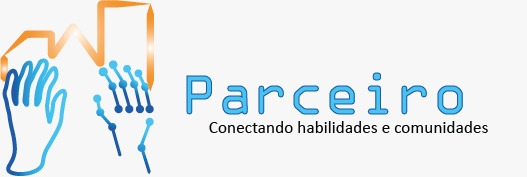
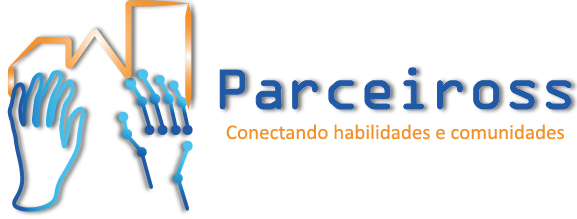
feat: Adjusts
- css adjusts
 - route redirect
 - dummyData adjusts
 - add images
 - add new logo

Changed region(s): [[0.0, 0.0, 1.0, 1.0], [0.3947, 0.678, 0.9412, 0.7627]]

diff --git a/src/components/sidebar/Sidebar.jsx b/src/components/sidebar/Sidebar.jsx
@@ -9,6 +9,8 @@ import {
   WorkOutline,
   Event,
   School,
+  Work,
+  LocationCity,
 } from "@material-ui/icons";
 import { Users } from "../../dummyData";
 import CloseFriend from "../closeFriend/CloseFriend";
@@ -28,31 +30,39 @@ export default function Sidebar() {
           </li>
           <li className="sidebarListItem">
             <PlayCircleFilledOutlined className="sidebarIcon" />
-            <span className="sidebarListItemText">Videos</span>
+            <span className="sidebarListItemText">Vídeos</span>
           </li>
           <li className="sidebarListItem">
             <Group className="sidebarIcon" />
-            <span className="sidebarListItemText">Groups</span>
+            <span className="sidebarListItemText">Grupos</span>
           </li>
           <li className="sidebarListItem">
             <Bookmark className="sidebarIcon" />
-            <span className="sidebarListItemText">Bookmarks</span>
+            <span className="sidebarListItemText">Favoritos</span>
           </li>
           <li className="sidebarListItem">
             <HelpOutline className="sidebarIcon" />
-            <span className="sidebarListItemText">Questions</span>
+            <span className="sidebarListItemText">Questões</span>
+          </li>
+          <li className="sidebarListItem">
+            <Work className="sidebarIcon" />
+            <span className="sidebarListItemText">Ofertas</span>
           </li>
           <li className="sidebarListItem">
             <WorkOutline className="sidebarIcon" />
-            <span className="sidebarListItemText">Jobs</span>
+            <span className="sidebarListItemText">Demandas</span>
           </li>
           <li className="sidebarListItem">
             <Event className="sidebarIcon" />
-            <span className="sidebarListItemText">Events</span>
+            <span className="sidebarListItemText">Projetos</span>
+          </li>
+          <li className="sidebarListItem">
+            <LocationCity className="sidebarIcon" />
+            <span className="sidebarListItemText">Comunidades</span>
           </li>
           <li className="sidebarListItem">
             <School className="sidebarIcon" />
-            <span className="sidebarListItemText">Courses</span>
+            <span className="sidebarListItemText">Cursos</span>
           </li>
         </ul>
         <button className="sidebarButton">Show More</button>

diff --git a/src/components/post/post.css b/src/components/post/post.css
@@ -9,6 +9,16 @@
 .postWrapper {
   padding: 10px;
 }
+.postCheck {
+  color: green;
+  margin-left: 400px;
+  position: relative;
+}
+
+.postCheckText {
+  top: 5px;
+  position: absolute;
+}
 
 .postTop {
   display: flex;
@@ -34,45 +44,45 @@
   margin: 0 10px;
 }
 
-.postDate{
-    font-size: 12px;
+.postDate {
+  font-size: 12px;
 }
 
-.postCenter{
-    margin: 20px 0;
+.postCenter {
+  margin: 20px 0;
 }
 
-.postImg{
-    margin-top: 20px;
-    width: 100%;
-    max-height: 500px;
-    object-fit: contain;
+.postImg {
+  margin-top: 20px;
+  width: 100%;
+  max-height: 500px;
+  object-fit: contain;
 }
 
-.postBottom{
-    display: flex;
-    align-items: center;
-    justify-content: space-between;
+.postBottom {
+  display: flex;
+  align-items: center;
+  justify-content: space-between;
 }
 
-.postBottomLeft{
-    display: flex;
-    align-items: center;   
+.postBottomLeft {
+  display: flex;
+  align-items: center;
 }
 
-.likeIcon{
-    width: 24px;
-    height: 24px;
-    margin-right: 5px;
-    cursor: pointer;
+.likeIcon {
+  width: 24px;
+  height: 24px;
+  margin-right: 5px;
+  cursor: pointer;
 }
 
-.postLikeCounter{
-    font-size: 15px;
+.postLikeCounter {
+  font-size: 15px;
 }
 
-.postCommentText{
-    cursor: pointer;
-    border-bottom: 1px dashed gray;
-    font-size: 15px;
+.postCommentText {
+  cursor: pointer;
+  border-bottom: 1px dashed gray;
+  font-size: 15px;
 }

diff --git a/src/dummyData.js b/src/dummyData.js
@@ -26,7 +26,7 @@ export const Users = [
   },
   {
     id:6,
-    profilePicture: "assets/person/6.jpeg",
+    profilePicture: "assets/person/9.jpeg",
     username: "Shirley Beauchamp",
   },
   {
@@ -41,7 +41,7 @@ export const Users = [
   },
   {
     id:9,
-    profilePicture: "assets/person/9.jpeg",
+    profilePicture: "assets/person/6.jpeg",
     username: "Gary Duty",
   },
   {
@@ -60,10 +60,12 @@ export const Posts = [
     userId: 1,
     like: 32,
     comment: 9,
+    workStatus: "Trabalho concluido",
   },
   {
     id: 2,
-    photo: "assets/post/2.jpeg",
+    desc: "Eu e meu chapéu lindo.",
+    photo: "assets/post/13.jpg",
     date: "15 mins ago",
     userId: 2,
     like: 2,
@@ -71,8 +73,8 @@ export const Posts = [
   },
   {
     id: 3,
-    desc: "Descanso merecido :)",
-    photo: "assets/post/3.jpeg",
+    desc: "Finalizado :)",
+    photo: "assets/post/12.jpg",
     date: "1 hour ago",
     userId: 3,
     like: 61,
@@ -113,7 +115,7 @@ export const Posts = [
   },
   {
     id: 8,
-    photo: "assets/post/8.jpeg",
+    photo: "assets/post/8.jpg",
     date: "3 days ago",
     userId: 8,
     like: 15,
@@ -122,7 +124,7 @@ export const Posts = [
   {
     id: 9,
     desc: "Mude o mundo fazendo o bem.",
-    photo: "assets/post/9.jpeg",
+    photo: "assets/post/14.jpg",
     date: "5 days ago",
     userId: 9,
     like: 11,

diff --git a/src/components/topbar/Topbar.jsx b/src/components/topbar/Topbar.jsx
@@ -5,10 +5,12 @@ import { Search, Person, Chat, Notifications, StarRate } from "@material-ui/icon
 export default function Topbar() {
   return (
     <div className="topbarContainer">
-      {/* <img className="topbarLeft" src="assets/layout.jpeg" alt="" /> */}
-      <div className="topbarLeft">
+      <Link to="/">
+        <img className="topbarLeft" src="assets/logo-sp.png" alt="" />
+      </Link>
+      {/* <div className="topbarLeft">
         <span className="logo">Parceiross.com.br</span>
-      </div>
+      </div> */}
       <div className="topbarCenter">
         <div className="searchbar">
           <Search className="searchIcon" />
@@ -20,7 +22,7 @@ export default function Topbar() {
       </div>
       <div className="topbarRight">
         <div className="topbarLinks">
-          <span className="topbarLink">Homepage</span>
+          {/* <span className="topbarLink">Home</span> */}
           <span className="topbarLink">Timeline</span>
         </div>
         {/* <span className="topbarLinkRate">Avaliação </span> */}

diff --git a/src/components/share/Share.jsx b/src/components/share/Share.jsx
@@ -17,7 +17,7 @@ export default function Share() {
             <div className="shareOptions">
                 <div className="shareOption">
                     <PermMedia htmlColor="tomato" className="shareIcon"/>
-                    <span className="shareOptionText">Foto/Video</span>
+                    <span className="shareOptionText">Foto/Vídeo</span>
                 </div>
                 <div className="shareOption">
                     <Label htmlColor="blue" className="shareIcon"/>
@@ -36,7 +36,7 @@ export default function Share() {
                     <span className="shareOptionText">Sentimentos</span>
                 </div>
             </div>
-            <button className="shareButton">Share</button>
+            <button className="shareButton">Compartilhar</button>
         </div>
       </div>
     </div>

diff --git a/src/components/post/Post.jsx b/src/components/post/Post.jsx
@@ -31,8 +31,11 @@ export default function Post({ post }) {
           </div>
         </div>
         <div className="postCenter">
-          <span className="postText">{post?.desc}</span>
-          <span className="postText">{post?.desc}</span>
+            <span className="postText">{post?.desc}</span>
+            <div className="postCheck">
+              <Check/> 
+              <span className="postCheckText">Trabalho concluído</span>
+            </div>
           <img className="postImg" src={post.photo} alt="" />
         </div>
         <div className="postBottom">

diff --git a/src/components/rightbar/Rightbar.jsx b/src/components/rightbar/Rightbar.jsx
@@ -12,8 +12,8 @@ export default function Rightbar({ profile }) {
             <b>Danilo Carlotti</b> e <b>3 outros amigos</b> finalizaram um serviço.
           </span>
         </div>
-        <img className="rightbarAd" src="assets/tech.jpeg" alt="" />
-        <h4 className="rightbarTitle">Amigos Online</h4>
+        <img className="rightbarAd" src="assets/tech.png" alt="" />
+        <h4 className="rightbarTitle">Parceiros Online</h4>
         <ul className="rightbarFriendList">
           {Users.map((u) => (
             <Online key={u.id} user={u} />

diff --git a/src/pages/login/Login.jsx b/src/pages/login/Login.jsx
@@ -7,12 +7,6 @@ export default function Login() {
     <div className="login">
       <div className="loginWrapper">
         <img className="loginLeft" src="assets/logo3.png" alt="" />
-        {/* <div className="loginLeft">
-          <h3 className="loginLogo">Parceiross.com.br</h3>
-          <span className="loginDesc">
-            Conectando habilidades e comunidades.
-          </span>
-        </div> */}
         <div className="loginRight">
           <div className="loginBox">
             <input placeholder="Email" className="loginInput" />

diff --git a/src/components/topbar/topbar.css b/src/components/topbar/topbar.css
@@ -3,8 +3,8 @@
   width: 100%;
   background: linear-gradient(
     to bottom,
-    #66b0ec,
-    #1d3e80 80%,
+    #66b0ec 5%,
+    #0056bc 80%,
     #66b0ec,
     #ff931e
   );
@@ -16,7 +16,20 @@
 }
 
 .topbarLeft {
-  flex: 3;
+  width: 70px;
+  height: 50px;
+  /* flex: 3; */
+  /* border-radius: 50%; */
+  /* position: absolute; */
+  display: flex;
+  /* align-items: center; */
+  /* top: 5px; */
+  /* right: 5px; */
+  /* left: 15px; */
+  /* display: flex; */
+  margin-left: 20px;
+  margin-right: 330px;
+  margin-bottom: 5px;
 }
 
 .logo {

diff --git a/src/components/sidebar/sidebar.css b/src/components/sidebar/sidebar.css
@@ -30,6 +30,7 @@
   display: flex;
   align-items: center;
   margin-bottom: 20px;
+  cursor: pointer;
 }
 
 .sidebarIcon {
@@ -42,6 +43,7 @@
   padding: 10px;
   border-radius: 5px;
   font-weight: 500;
+  cursor: pointer;
 }
 
 .sidebarHr {
@@ -52,6 +54,5 @@
   padding: 0;
   margin: 0;
   list-style: none;
+  cursor: pointer;
 }
-
-

diff --git a/src/pages/login/login.css b/src/pages/login/login.css
@@ -20,7 +20,7 @@
   justify-content: center;
   max-width: 450px;
   max-height: 350px;
-  margin-top: 110px;
+  margin-top: 70px;
   margin-right: 50px;
 }
 
